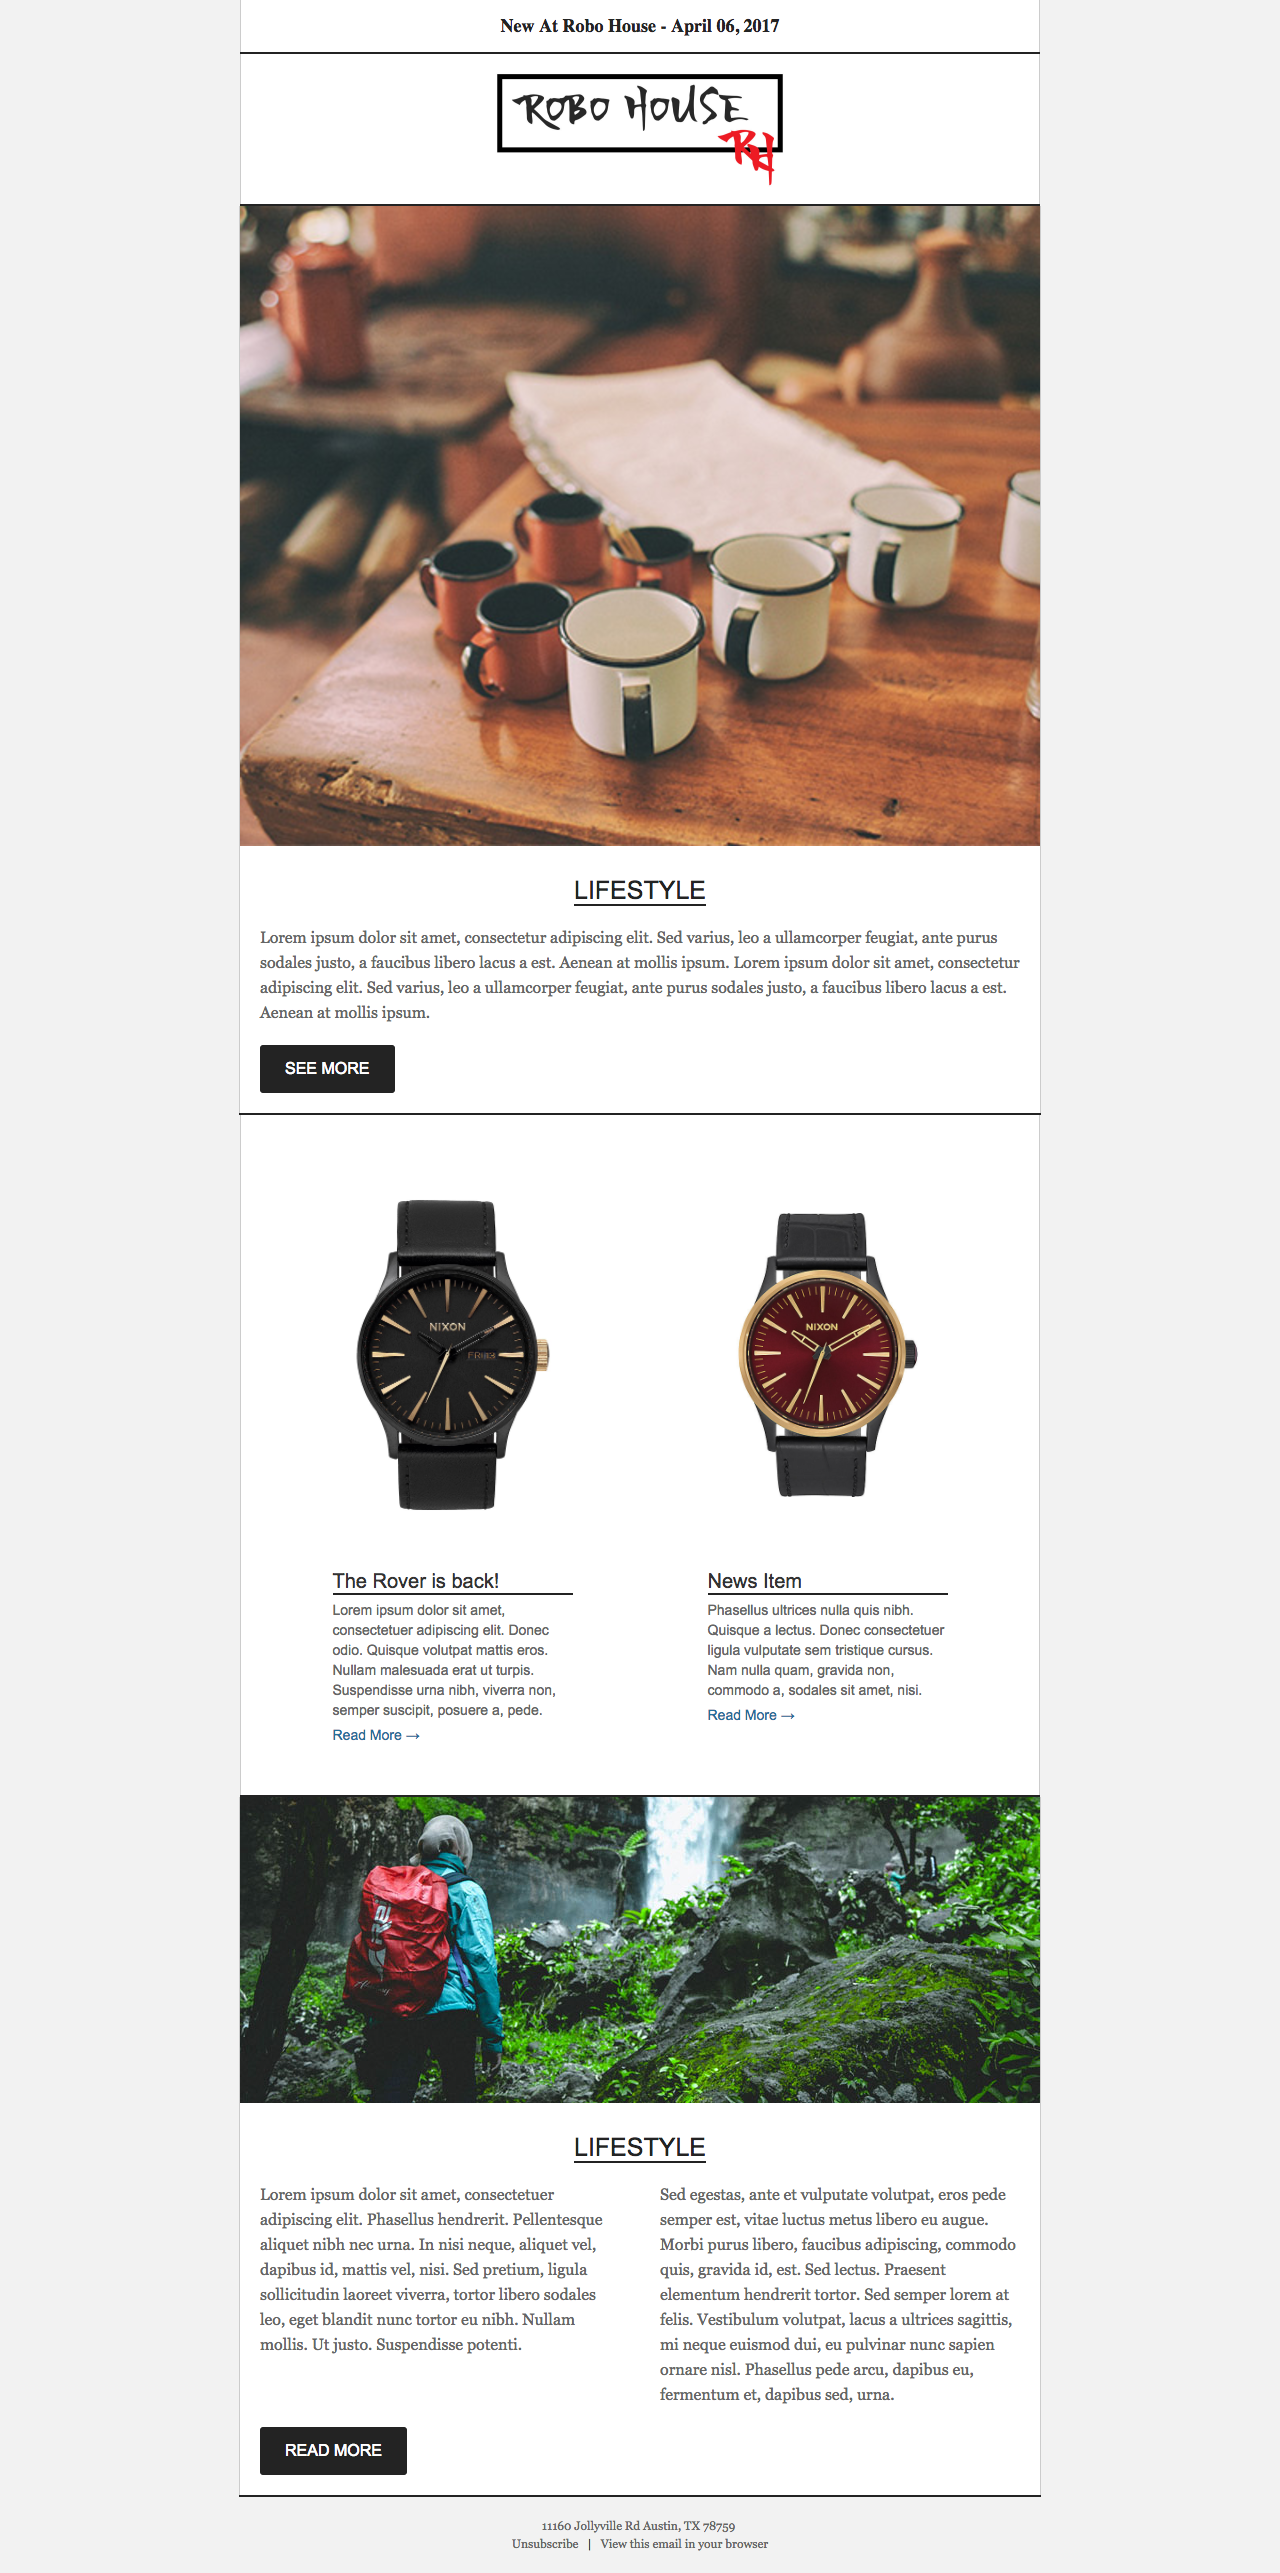
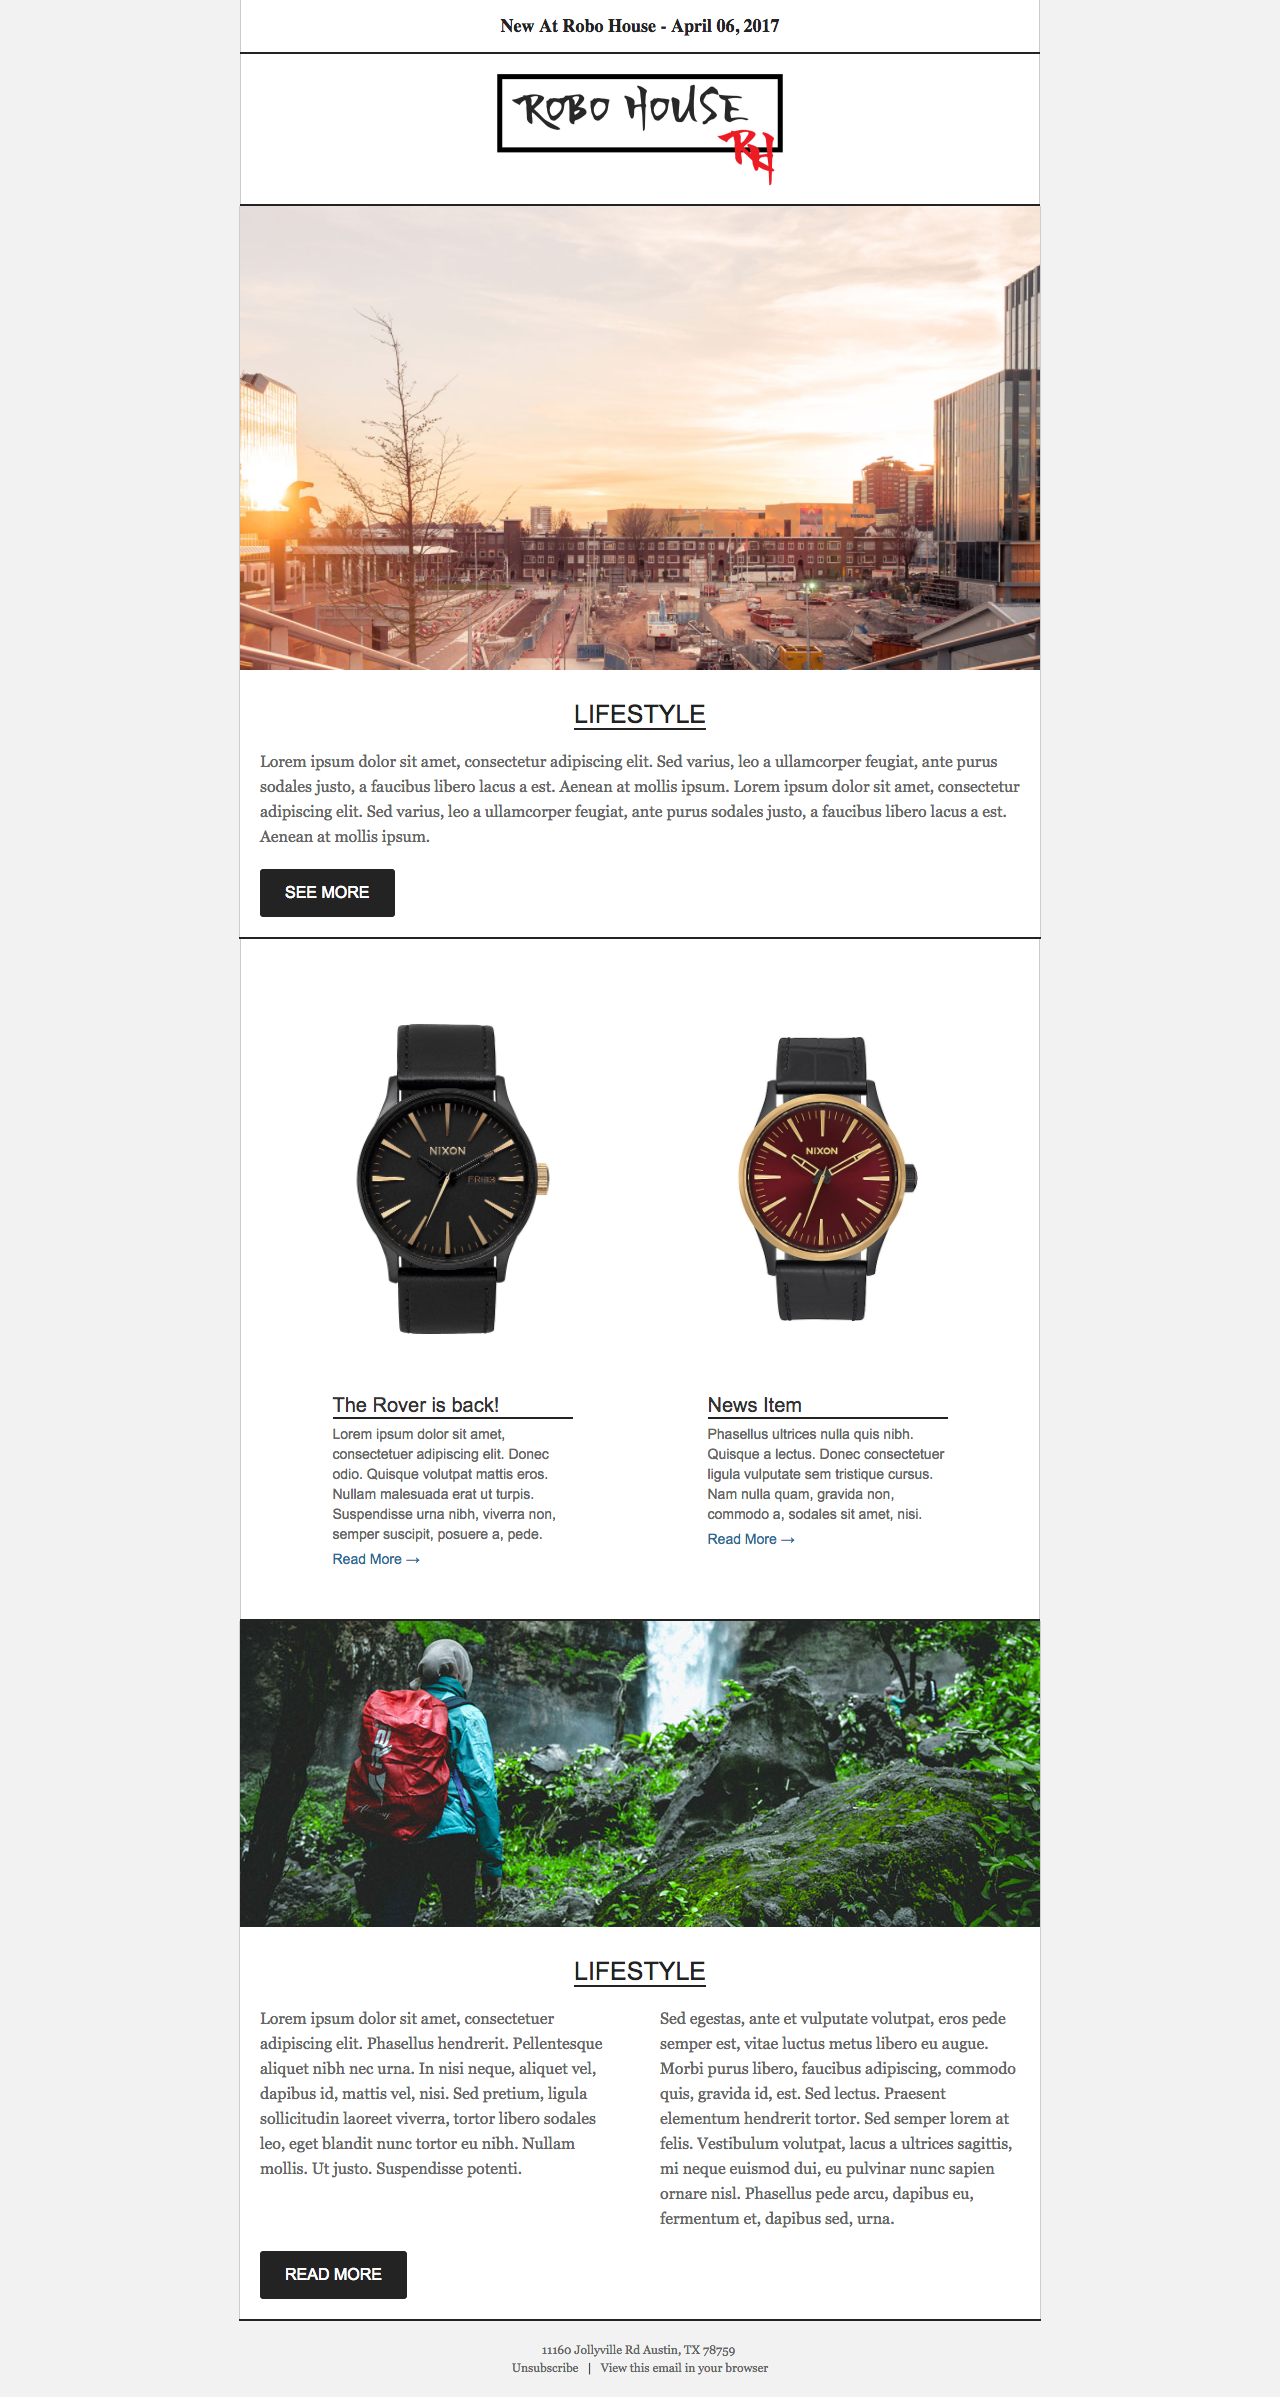
Relative paths and update screen image

Changed region(s): [[0.1875, 0.0, 0.8125, 1.0]]

diff --git a/newsletter/newsletter.html b/newsletter/newsletter.html
@@ -134,7 +134,7 @@
                 <tr>
                   <td align="center" valign="top" style="color: #232323; padding: 15px 0; font-size: 18px; font-weight: bold;" class="logo">
                     <a href="http://robo-house.com" target="_blank">
-                        <img alt="Logo" src="https://github.com/kevin-wynn/email-templates/blob/master/newsletter/logo.jpg?raw=true" width="300" style="display: block; font-family: Helvetica, Arial, sans-serif; color: #ffffff; font-size: 16px;" border="0">
+                        <img alt="Logo" src="logo.jpg" width="300" style="display: block; font-family: Helvetica, Arial, sans-serif; color: #ffffff; font-size: 16px;" border="0">
                     </a>
                   </td>
                 </tr>
@@ -161,7 +161,7 @@
                             <tr>
                               	<td class="padding" align="center">
                                     <a href="http://robo-house.com" target="_blank">
-                                        <img src="https://github.com/kevin-wynn/email-templates/blob/master/newsletter/hero1.jpg?raw=true" width="800" border="0" alt="Insert alt text here" style="display: block; color: #666666;  font-family: Georgia, Courier, serif; font-size: 16px;" class="img-max">
+                                        <img src="hero1.jpg" width="800" border="0" alt="Insert alt text here" style="display: block; color: #666666;  font-family: Georgia, Courier, serif; font-size: 16px;" class="img-max">
                                     </a>
                                 </td>
                             </tr>
@@ -241,7 +241,7 @@
                                                                       <td style="padding: 20px 0 30px 0;">
                                                                           <table cellpadding="0" cellspacing="0" border="0" width="100%">
                                                                               <tr>
-                                                                                  <td align="center" bgcolor="#ffffff" valign="middle" height="400"><a href="http://robo-house.com" target="_blank"><img src="https://github.com/kevin-wynn/email-templates/blob/master/newsletter/watch1.jpg?raw=true" width="240" style="display: block; color: #666666; font-family: Georgia, Courier, serif; font-size: 13px; width: 240px;" alt="Fluid images" border="0" class="img-max"></a></td>
+                                                                                  <td align="center" bgcolor="#ffffff" valign="middle" height="400"><a href="http://robo-house.com" target="_blank"><img src="watch1.jpg" width="240" style="display: block; color: #666666; font-family: Georgia, Courier, serif; font-size: 13px; width: 240px;" alt="Fluid images" border="0" class="img-max"></a></td>
                                                                               </tr>
                                                                               <tr>
                                                                                   <td align="left" style="border-bottom: 2px solid #232323; padding: 15px 0 0 0; font-family: Arial, sans-serif; color: #333333; font-size: 20px;" bgcolor="#ffffff">The Rover is back!</td>
@@ -279,7 +279,7 @@
                                                                                   <td style="padding: 20px 0 30px 0;">
                                                                                       <table cellpadding="0" cellspacing="0" border="0" width="100%">
                                                                                           <tr>
-                                                                                              <td align="center" bgcolor="#ffffff" valign="middle" height="400"><a href="http://robo-house.com" target="_blank"><img src="https://github.com/kevin-wynn/email-templates/blob/master/newsletter/watch2.jpg?raw=true" width="240" style="display: block; color: #666666; font-family: Georgia, Courier, serif; font-size: 13px; width: 240px;" alt="alt text here" border="0" class="img-max"></a></td>
+                                                                                              <td align="center" bgcolor="#ffffff" valign="middle" height="400"><a href="http://robo-house.com" target="_blank"><img src="watch2.jpg" width="240" style="display: block; color: #666666; font-family: Georgia, Courier, serif; font-size: 13px; width: 240px;" alt="alt text here" border="0" class="img-max"></a></td>
                                                                                           </tr>
                                                                                           <tr>
                                                                                               <td align="left" style="border-bottom: 2px solid #232323; padding: 15px 0 0 0; font-family: Arial, sans-serif; color: #333333; font-size: 20px;" bgcolor="#ffffff">News Item</td>
@@ -343,7 +343,7 @@
                             <tr>
                               	<td class="padding" align="center">
                                     <a href="http://robo-house.com" target="_blank">
-                                        <img src="https://github.com/kevin-wynn/email-templates/blob/master/newsletter/hero2.jpg?raw=true" width="800" border="0" alt="Insert alt text here" style="display: block; color: #666666;  font-family: Georgia, Courier, serif; font-size: 16px;" class="img-max">
+                                        <img src="hero2.jpg" width="800" border="0" alt="Insert alt text here" style="display: block; color: #666666;  font-family: Georgia, Courier, serif; font-size: 16px;" class="img-max">
                                     </a>
                                 </td>
                             </tr>
